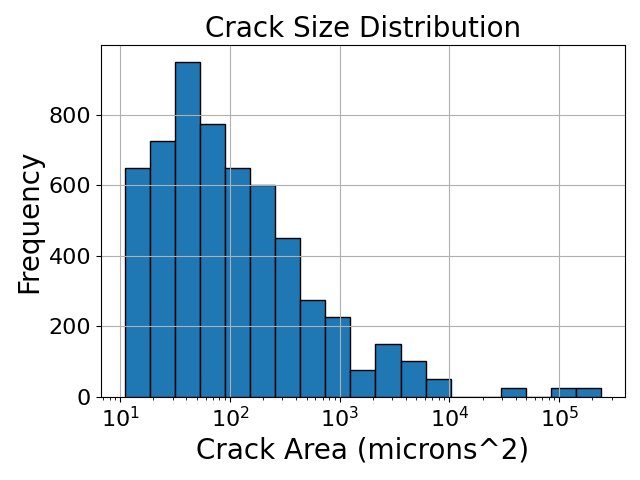
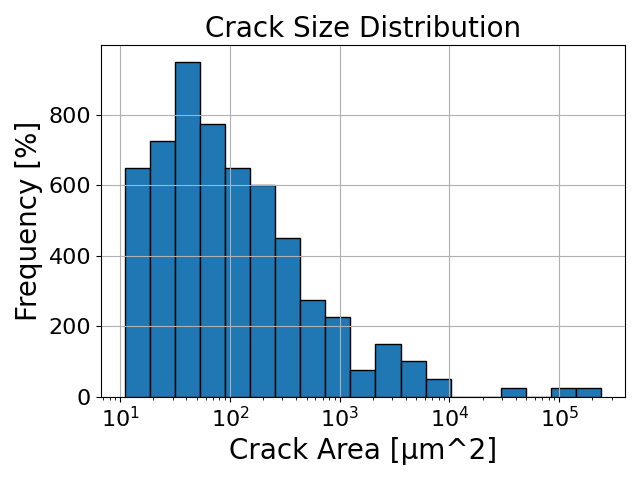
update

Changed region(s): [[0.3125, 0.9062, 0.8438, 0.9688], [0.0, 0.25, 0.0625, 0.6875]]

diff --git a/UTILE-pore/pore_analysis.py b/UTILE-pore/pore_analysis.py
@@ -154,13 +154,12 @@ def calculate_psd(filepath, csv_file, case_name, voxel_size=5):  # Added voxel_s
 
     # Plot the pore size distribution
     fig, ax = plt.subplots()
-    ax.plot(bin_centers * voxel_size, pdf, 'bo-', label=f'Pore Size Distribution\nAvg: {average_pore_size:.2f} µm\nSD: {std_deviation:.2f} µm', fontsize = 16)  # Scale x-axis to microns
+    ax.plot(bin_centers * voxel_size, pdf, 'bo-', label=f'Pore Size Distribution\nAvg: {average_pore_size:.2f} µm\nSD: {std_deviation:.2f} µm')  # Scale x-axis to microns
     ax.set_xlabel('Pore radius (microns)', fontsize = 20)
     ax.set_ylabel('Frequency', fontsize = 20)
     ax.set_title('Pore Size Distribution in 3D', fontsize = 20)
-    ax.legend()
-    ax.yticks(fontsize=16)
-    ax.xticks(fontsize=16)
+    ax.legend(fontsize=16)
+    
     plt.tight_layout()
     plt.savefig(f'./{case_name}/psd_plot.png')
     plt.close(fig)  # Close the figure to avoid display issues in scripts
@@ -376,8 +375,8 @@ def MPL_crack_analysis(mpl_layer, case_name, csv_file, mpl=2, slice_idx=0, from_
     plt.hist(crack_sizes, bins=bins, edgecolor='black')
     plt.xscale('log')
     plt.title("Crack Size Distribution", fontsize = 20)
-    plt.xlabel("Crack Area (microns^2)", fontsize = 20)
-    plt.ylabel("Frequency", fontsize = 20)
+    plt.xlabel("Crack Area [µm^2]", fontsize = 20)
+    plt.ylabel("Frequency [%]", fontsize = 20)
     plt.yticks(fontsize=16)
     plt.xticks(fontsize=16)
     plt.grid(True)
